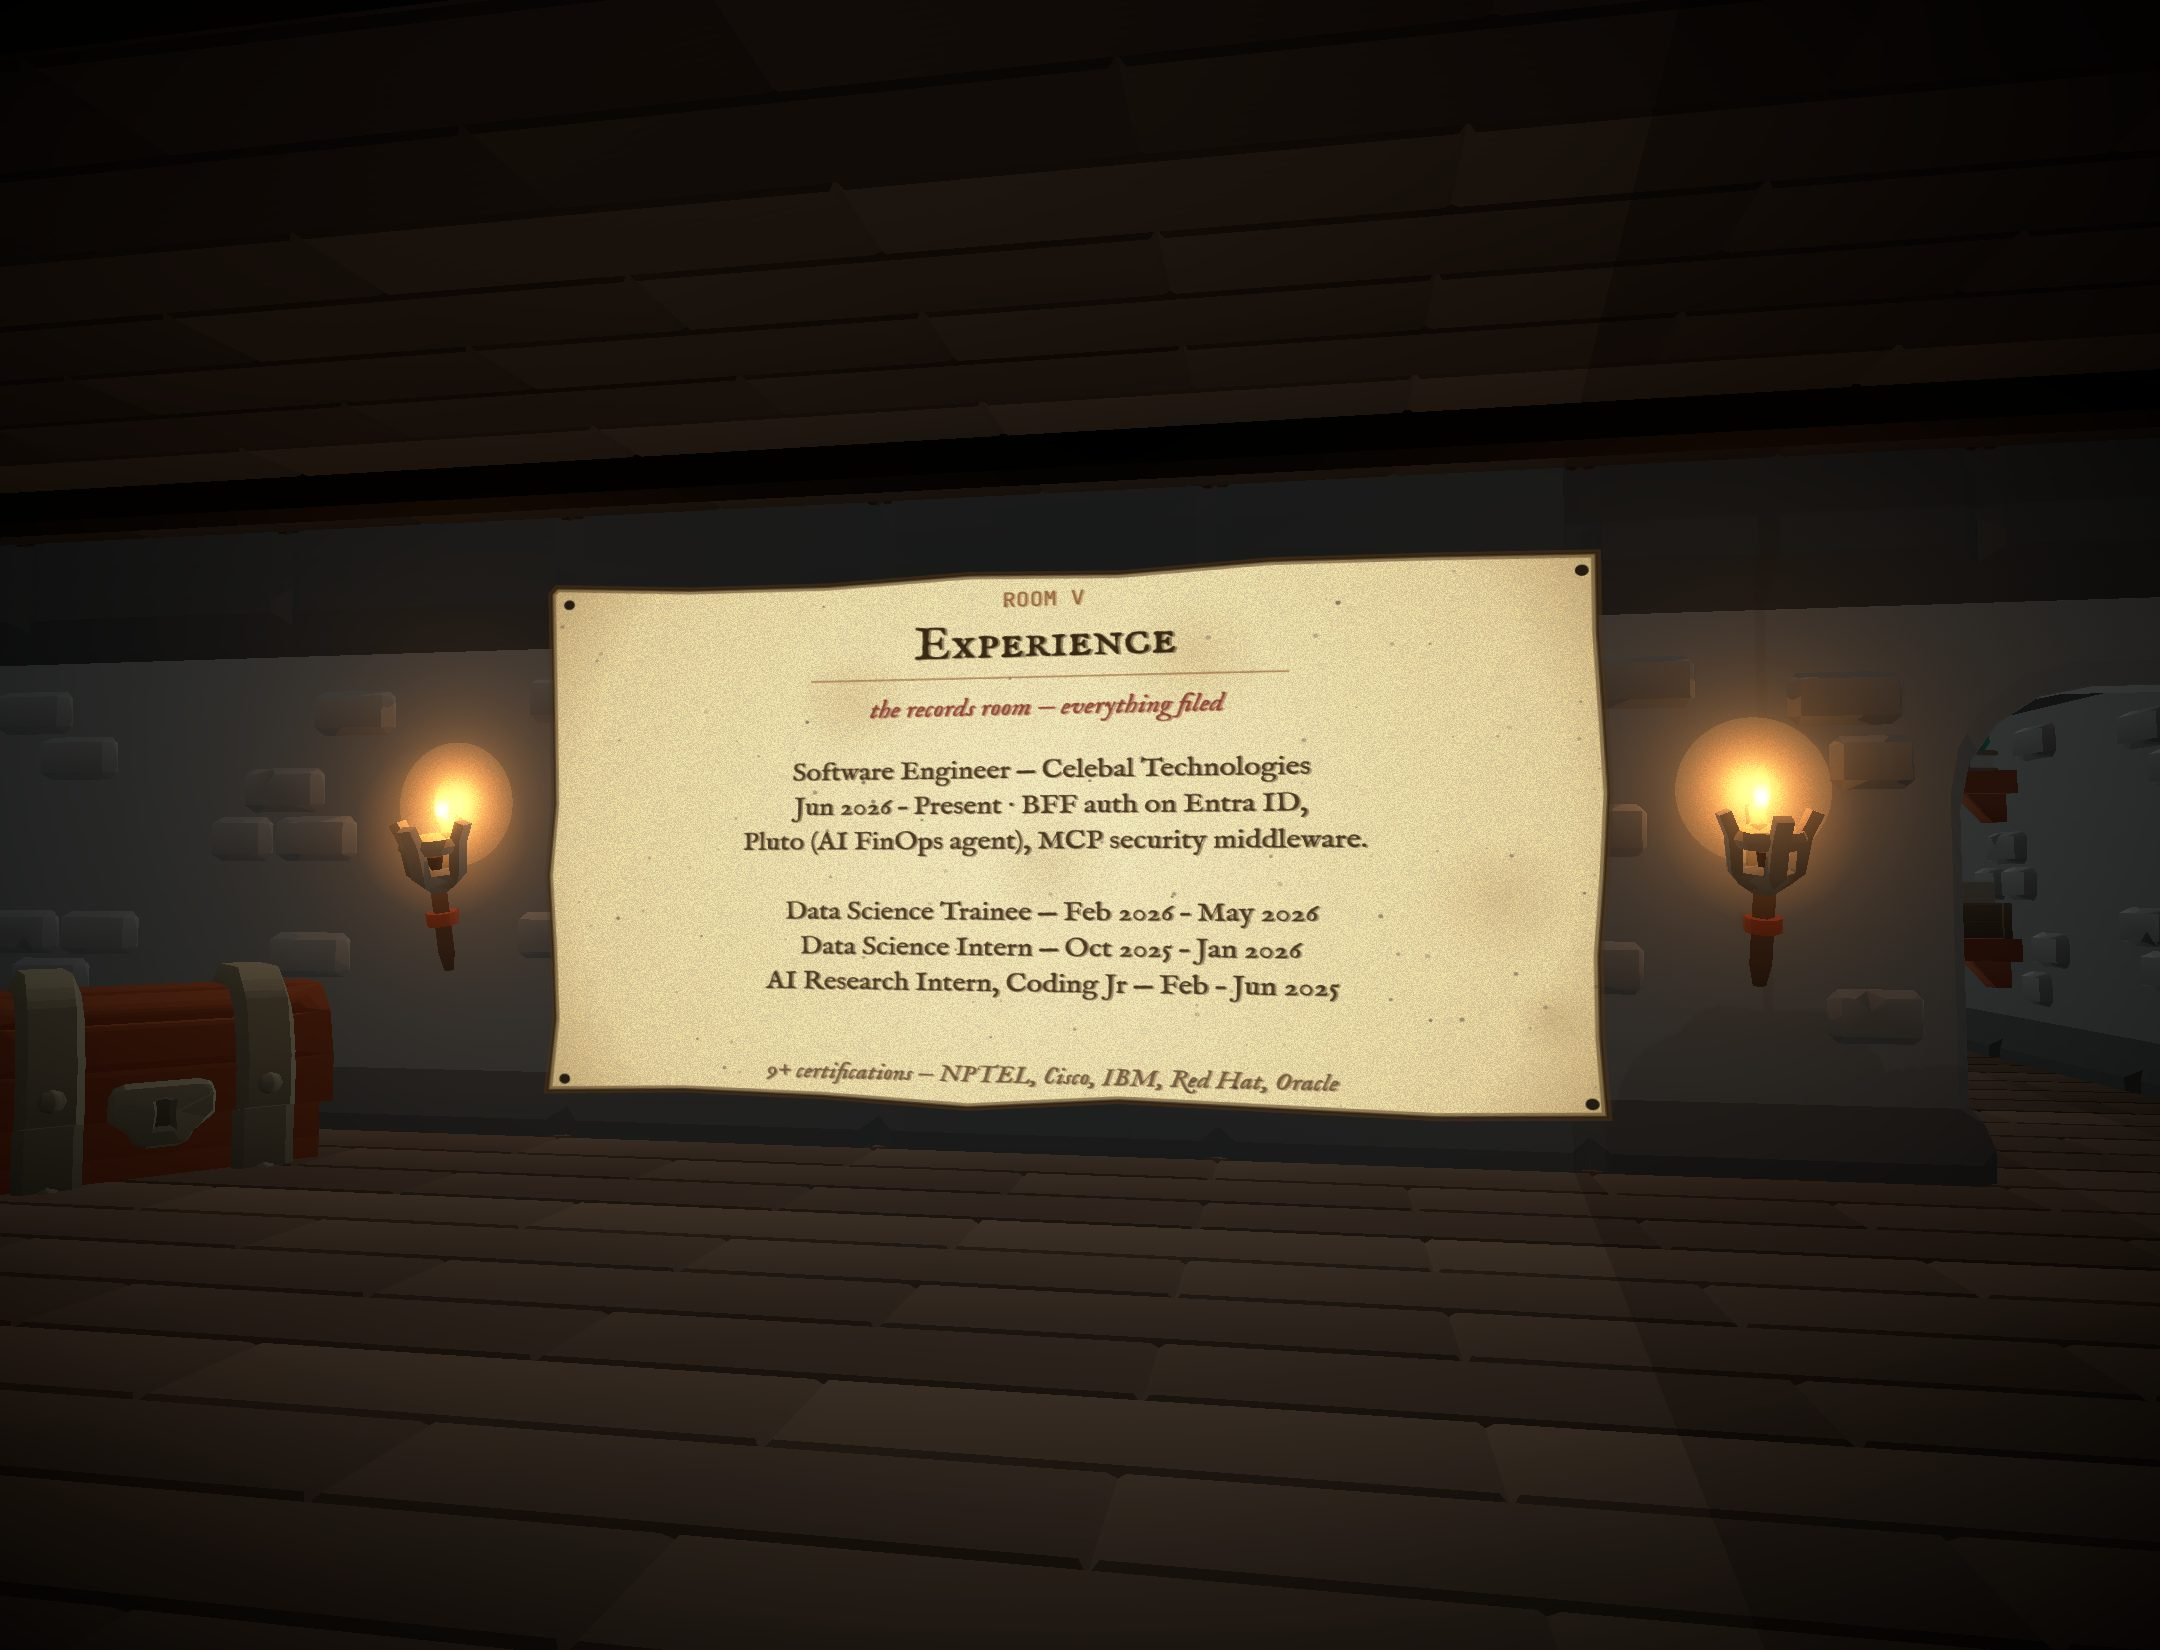
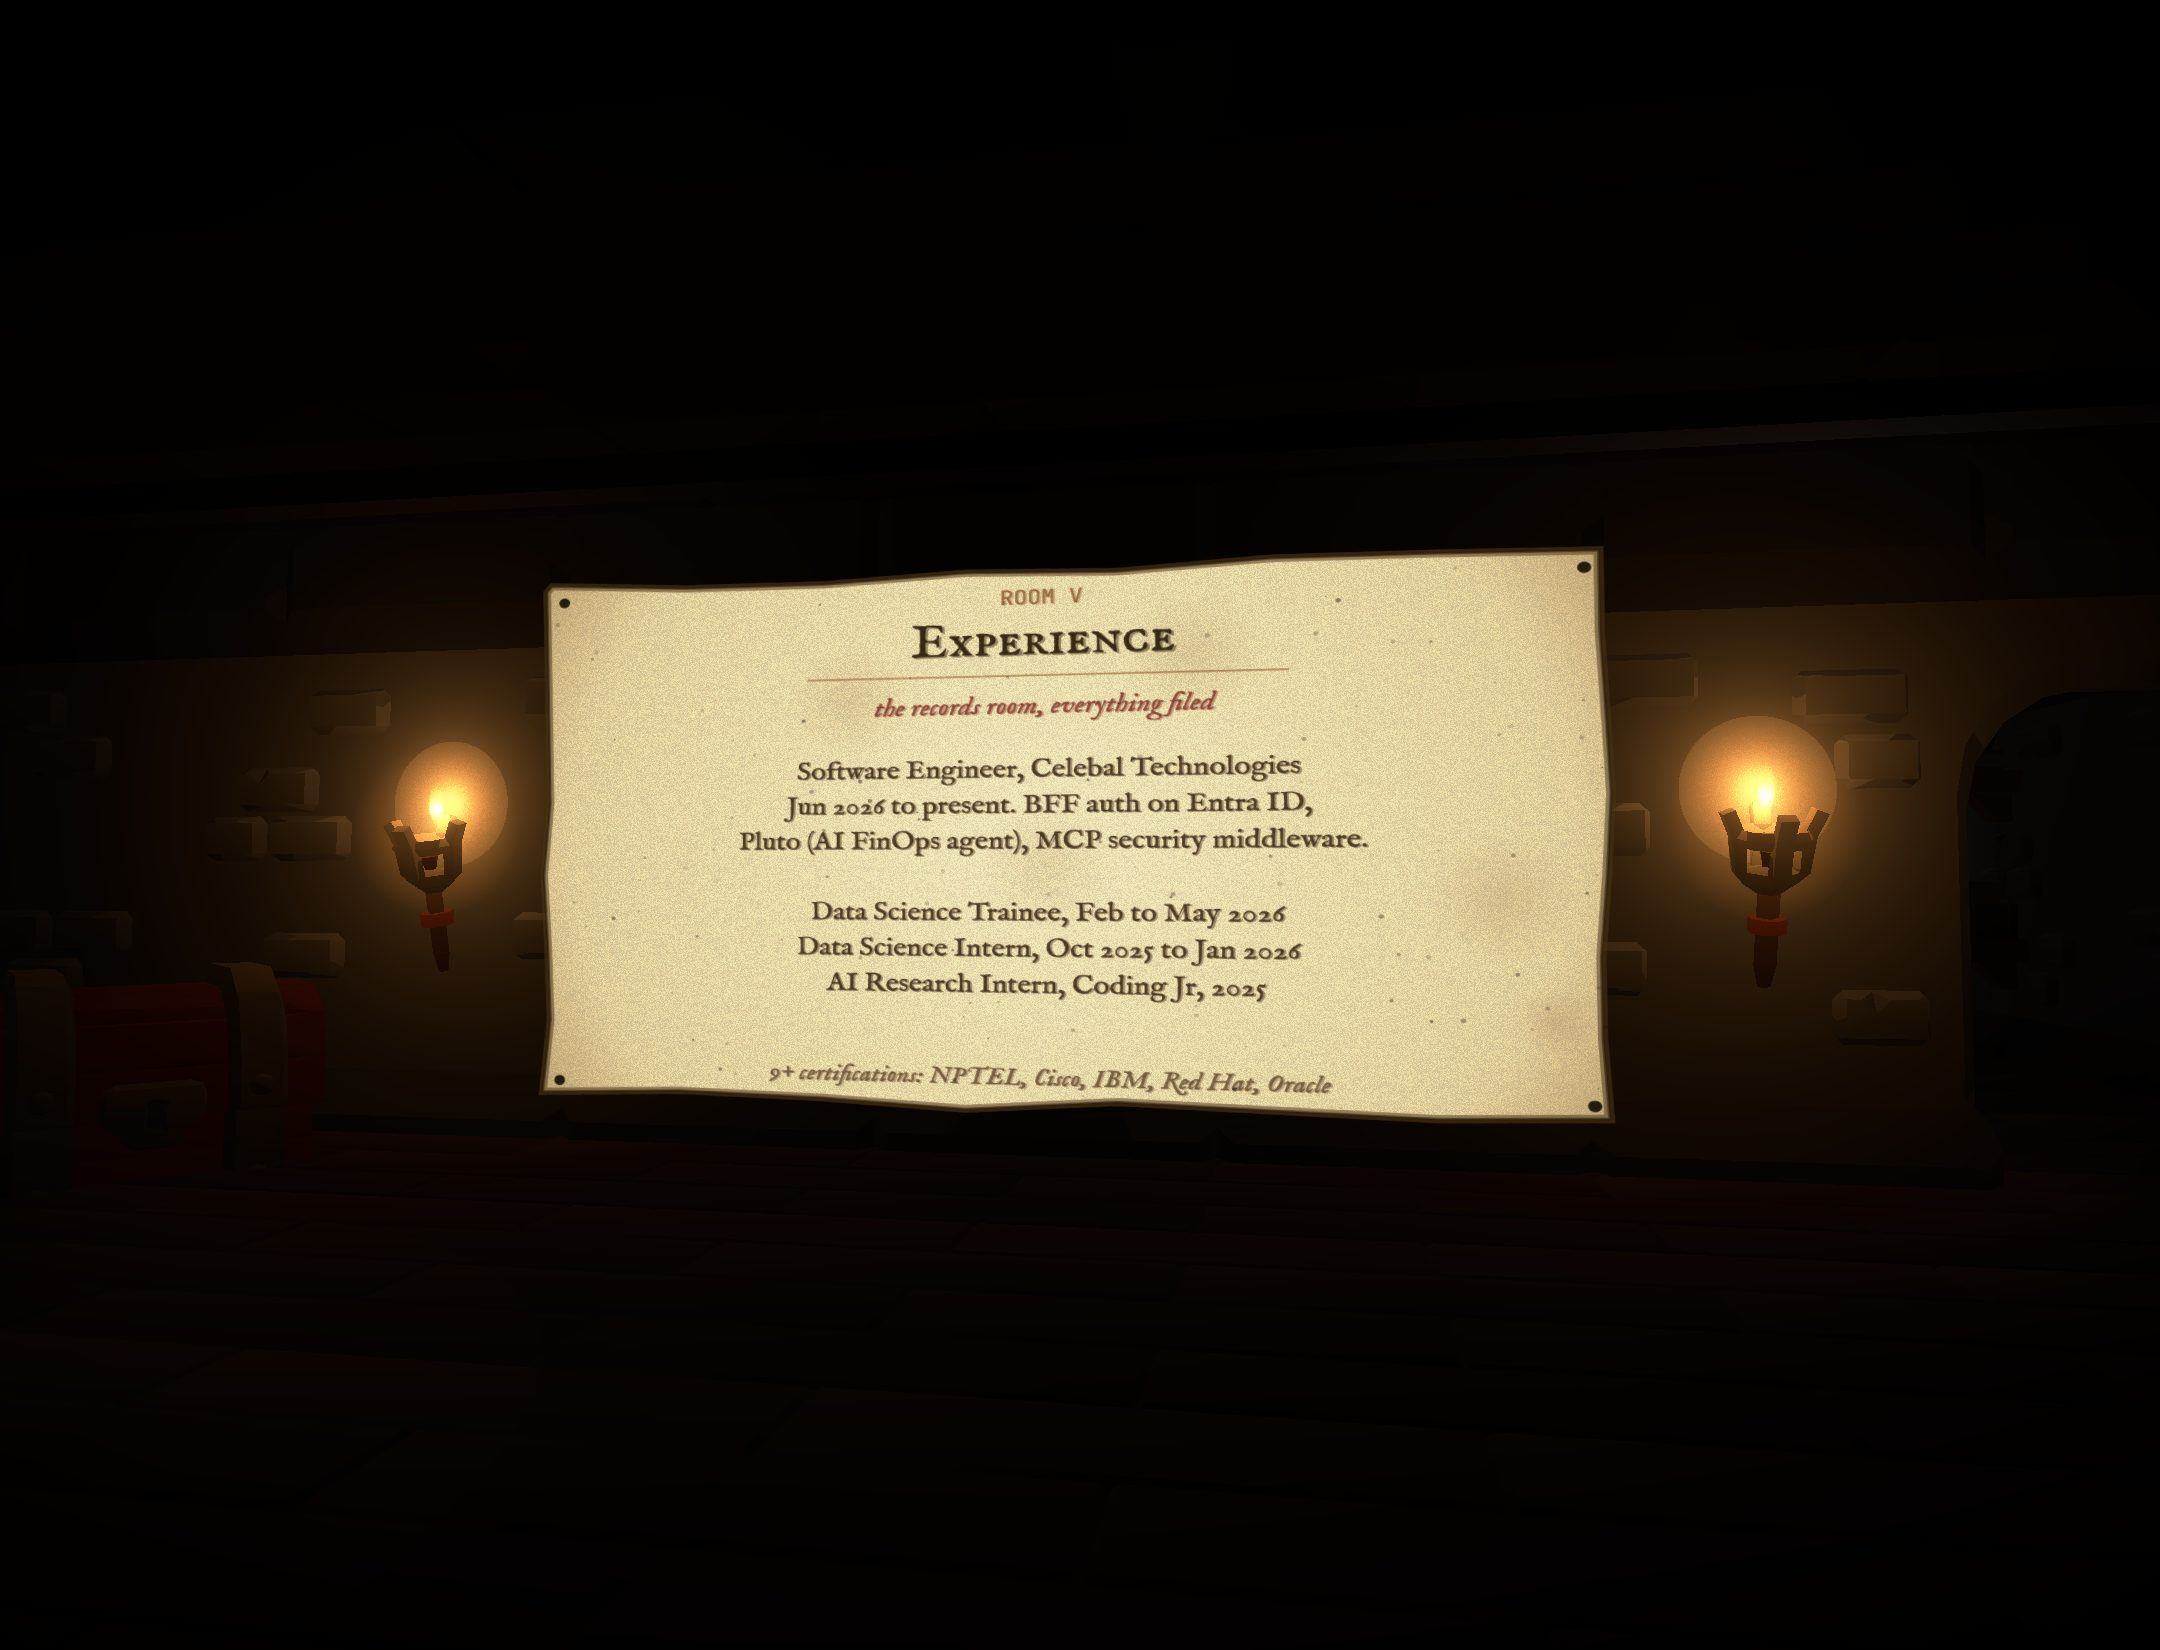
feat: the board carries a Contact me control; the form opens over it
Room VI's form used to hover in front of the room permanently, which is
the thing this whole pass has been removing. The board now draws its own
framed "Contact me" control in the room's typography, with a hotspot
riding it so the button the visitor sees and the thing they press are one
object. Pressing it opens the form on its own dark ground where nothing
behind it reads through.

This resolves the trade that was blocking the diegetic work. Rendering
the form INTO the canvas would have meant reimplementing keyboard entry,
autofill, paste and screen-reader support by hand, all worse than the
browser's. Behind a control, the fields stay ordinary inputs and the room
still never has a panel floating in it.

One trap worth recording: everything inside the letter is marked
[data-reveal] for the scroll choreography, which parks it at opacity 0
until a ScrollTrigger fires — and inside a modal that trigger never comes,
so the panel opened completely empty with only its heading showing.

Verified on both tracks: immersive has no inline form and opens the letter
from the board, real INPUT/email fields, sends, closes on Esc; static
keeps its inline form and no board control, and sends.

diff --git a/src/components/Contact.jsx b/src/components/Contact.jsx
@@ -1,8 +1,10 @@
-import { useState } from 'react'
+import { useEffect, useState } from 'react'
 import Chapter from './Chapter'
 import Cobweb from './Cobweb'
 import Spider from './Spider'
 import { sendMessage } from '../lib/sendMessage'
+import Reach from './Reach'
+import { useDevice } from '../hooks/useDevice'
 
 const EMAIL = 'wparasmotwani@gmail.com'
 
@@ -15,6 +17,13 @@ const contactLinks = [
 ]
 
 export default function Contact() {
+  const { immersive } = useDevice()
+  // In the room the form is behind the board's own "Contact me" control:
+  // a panel hovering permanently in front of the scenery is the thing this
+  // whole redesign was getting rid of. Opened, it sits on its own dark
+  // backdrop so nothing in the room reads through it — and the fields stay
+  // real inputs, which a canvas cannot be.
+  const [open, setOpen] = useState(false)
   const [formData, setFormData] = useState({ name: '', email: '', message: '' })
   // idle | sending | sent | failed
   const [state, setState] = useState('idle')
@@ -51,6 +60,13 @@ export default function Contact() {
       `mailto:${EMAIL}?subject=${encodeURIComponent(subject)}&body=${encodeURIComponent(body)}`
   }
 
+  useEffect(() => {
+    if (!open) return
+    const onKey = (e) => { if (e.key === 'Escape') setOpen(false) }
+    window.addEventListener('keydown', onKey)
+    return () => window.removeEventListener('keydown', onKey)
+  }, [open])
+
   const copy = async (what, text) => {
     try {
       await navigator.clipboard.writeText(text)
@@ -79,6 +95,109 @@ export default function Contact() {
         Let us build something<br /><span className="gold">intelligent.</span>
       </h3>
 
+      {/* In the room: the board carries the control, and pressing it opens
+          the real thing. Off the immersive track there is no board, so the
+          form stays inline where it always was. */}
+      {immersive ? (
+        <>
+          <Reach name="contact" onClick={() => setOpen(true)} label="Contact me" title="Contact me" />
+          {open && (
+            <div className="letter-backdrop" onClick={() => setOpen(false)}>
+              <div className="letter" onClick={(e) => e.stopPropagation()}>
+                <button
+                  className="letter-close"
+                  data-hover
+                  aria-label="Close"
+                  onClick={() => setOpen(false)}
+                >
+                  ✕
+                </button>
+                <h4 className="letter-head">Contact me</h4>
+        <div className="contact-grid">
+          <div className="contact-links" data-reveal>
+            {contactLinks.map((link) => (
+              <a
+                key={link.label}
+                href={link.href}
+                target={link.href.startsWith('http') || link.href.endsWith('.pdf') ? '_blank' : undefined}
+                rel="noopener noreferrer"
+                className="contact-link-item"
+                data-hover
+              >
+                <span className="label">{link.label}</span>
+                <span className="value">{link.value}</span>
+              </a>
+            ))}
+          </div>
+
+          <form className="contact-form" onSubmit={handleSubmit} data-reveal>
+            <input
+              type="text" placeholder="Your name"
+              value={formData.name}
+              onChange={(e) => setFormData({ ...formData, name: e.target.value })}
+              required
+            />
+            <input
+              type="email" placeholder="Your email"
+              value={formData.email}
+              onChange={(e) => setFormData({ ...formData, email: e.target.value })}
+              required
+            />
+            <textarea
+              placeholder="Your message" rows={4}
+              value={formData.message}
+              onChange={(e) => setFormData({ ...formData, message: e.target.value })}
+              required
+            />
+            <button
+              type="submit"
+              className="btn solid"
+              data-hover
+              data-magnetic
+              disabled={state === 'sending' || state === 'sent'}
+            >
+              {state === 'sending' ? 'Sending…' : state === 'sent' ? '✓ Message sent' : 'Send message →'}
+            </button>
+
+            {state === 'sent' && (
+              <div className="contact-fallback contact-fallback--ok" role="status">
+                <p>Delivered. A reply will come to {formData.email || 'the address you gave'}.</p>
+              </div>
+            )}
+
+            {state === 'failed' && (
+              <div className="contact-fallback" role="status">
+                <p>
+                  That didn’t send — nothing has reached Paras. Use one of
+                  these instead; they don’t depend on this form.
+                </p>
+                <div className="contact-fallback-row">
+                  <button type="button" data-hover onClick={openMailClient}>
+                    Open in mail app
+                  </button>
+                  <button type="button" data-hover onClick={() => copy('address', EMAIL)}>
+                    {copied === 'address' ? '✓ address copied' : `Copy ${EMAIL}`}
+                  </button>
+                  <button
+                    type="button"
+                    data-hover
+                    onClick={() => {
+                      const { subject, body } = compose()
+                      copy('message', `${subject}\n\n${body}`)
+                    }}
+                  >
+                    {copied === 'message' ? '✓ message copied' : 'Copy the message'}
+                  </button>
+                </div>
+              </div>
+            )}
+          </form>
+        </div>
+              </div>
+            </div>
+          )}
+        </>
+      ) : (
       <div className="contact-grid">
         <div className="contact-links" data-reveal>
           {contactLinks.map((link) => (
@@ -159,6 +278,7 @@ export default function Contact() {
           )}
         </form>
       </div>
+      )}
     </Chapter>
   )
 }

diff --git a/src/index.css b/src/index.css
@@ -2444,3 +2444,84 @@ html.lights-on .cursor-ring { opacity: 1; }
   border-left-color: var(--gold);
   background: rgba(212, 169, 78, 0.08);
 }
+
+/* The letter: the contact form, opened from the board's own control.
+   Same pattern as the booklet and the machine — a thing in the room is
+   pressed, and the real interface comes up on its own dark ground where
+   nothing behind it reads through. The fields are ordinary inputs, so
+   autofill, paste, keyboard and screen readers all still work; that is
+   the whole reason this is a panel and not a canvas. */
+.letter-backdrop {
+  position: fixed;
+  inset: 0;
+  z-index: 1600;
+  display: grid;
+  place-items: center;
+  padding: clamp(16px, 4vw, 48px);
+  background: rgba(6, 5, 3, 0.9);
+  backdrop-filter: blur(7px);
+  animation: letterIn 0.32s var(--ease-out);
+}
+@keyframes letterIn { from { opacity: 0 } to { opacity: 1 } }
+
+.letter {
+  position: relative;
+  width: min(940px, 100%);
+  max-height: 88vh;
+  overflow-y: auto;
+  padding: clamp(26px, 4vw, 46px);
+  background:
+    radial-gradient(ellipse 120% 100% at 50% 0%, rgba(212, 169, 78, 0.06), transparent 70%),
+    #100d09;
+  border: 1px solid var(--gold-faint);
+  outline: 3px solid rgba(212, 169, 78, 0.06);
+  outline-offset: 6px;
+  box-shadow: 0 40px 90px rgba(0, 0, 0, 0.8);
+}
+
+.letter-head {
+  font-family: var(--font-display);
+  font-size: clamp(1.5rem, 3.4vw, 2.1rem);
+  letter-spacing: 0.06em;
+  color: var(--gold);
+  text-align: center;
+  margin-bottom: 6px;
+}
+.letter-head::after {
+  content: '';
+  display: block;
+  width: 46%;
+  height: 1px;
+  margin: 16px auto 26px;
+  background: linear-gradient(90deg, transparent, var(--gold-dim), transparent);
+}
+
+.letter-close {
+  position: absolute;
+  top: 12px;
+  right: 14px;
+  width: 34px;
+  height: 34px;
+  font-size: 0.9rem;
+  color: var(--gold-dim);
+  background: transparent;
+  border: 1px solid var(--gold-faint);
+  cursor: pointer;
+}
+.letter-close:hover { color: var(--gold); border-color: var(--gold-dim); }
+
+/* inside the letter the two columns stack on narrow screens */
+.letter .contact-grid { margin-top: 0; }
+@media (max-width: 760px) {
+  .letter .contact-grid { grid-template-columns: 1fr; }
+}
+
+/* Everything inside the letter is visible the moment it opens. The form and
+   the link list are marked [data-reveal] for the scroll choreography, which
+   parks them at opacity 0 until their trigger fires — and inside a modal
+   that trigger never comes, so the panel opened empty. */
+.letter [data-reveal] {
+  opacity: 1 !important;
+  transform: none !important;
+  filter: none !important;
+}

diff --git a/src/scene/RoomCopy.jsx b/src/scene/RoomCopy.jsx
@@ -63,7 +63,11 @@ function head(g, numeral, title, subtitle) {
 
 // Heading + running prose. Used where a room has something to say rather
 // than something to list.
-export function ProseBoard({ numeral, title, subtitle, lines, foot, at = AT, size = SIZE }) {
+// `action` draws a framed label low on the board — the visible half of a
+// control. A Hotspot goes over it in the room, so the button is part of the
+// scenery rather than a DOM card floating in front of it, and pressing it
+// opens the real form on top of everything.
+export function ProseBoard({ numeral, title, subtitle, lines, foot, action, at = AT, size = SIZE }) {
   const { cw, ch } = boardCanvas(size)
   return (
     <Inscription
@@ -78,6 +82,18 @@ export function ProseBoard({ numeral, title, subtitle, lines, foot, at = AT, siz
           if (!line) return
           roughText(g, line, W / 2, 290 + i * 46, 33, INK_BODY, 0.93, { font: SERIF })
         })
+        if (action) {
+          const bw = 430, bh = 78, bx = W / 2 - bw / 2, by = H - 186
+          g.strokeStyle = INK_RED
+          g.globalAlpha = 0.62
+          g.lineWidth = 3
+          g.strokeRect(bx, by, bw, bh)
+          g.globalAlpha = 0.16
+          g.fillStyle = INK_RED
+          g.fillRect(bx, by, bw, bh)
+          g.globalAlpha = 1
+          roughText(g, action, W / 2, by + 52, 36, INK_RED, 0.95, { font: SERIF })
+        }
         if (foot) {
           roughText(g, foot, W / 2, H - 52, 30, INK_SOFT, 0.75, { font: SERIF, style: 'italic' })
         }

diff --git a/src/scene/Rooms.jsx b/src/scene/Rooms.jsx
@@ -4,6 +4,7 @@ import ManorRoom, { cols, FLOOR } from './ManorRoom'
 import { Piece, preloadPieces } from './toonify'
 import { Flame } from './Flame'
 import { ProseBoard, ListBoard } from './RoomCopy'
+import { Hotspot } from './Hotspot'
 import Arcade from './Arcade'
 import { journey, roomOffset, roomShift } from './journey'
 import { WOOD, WOOD_DARK, STONE, CRATE, WAX, IRON, FLAME_WARM, CANDLE_LIGHT, CANDLE_DIST } from './palette'
@@ -200,8 +201,12 @@ export function ContactRoom({ lit }) {
           '',
           'Open to opportunities and collaborations.',
         ]}
-        foot="leave word below, the house will pass it on"
+        action="Contact me"
+        foot="the house will pass it on"
       />
+      {/* rides the drawn control on the board, so the button the visitor
+          sees and the thing they click are the same object */}
+      <Hotspot name="contact" reach={30} position={[0, -0.66, -5.3]} />
       <BoardLights lit={lit} />
       <Piece file="table_small_decorated_A" position={[-5.2, FLOOR, -1.4]} rotation={[0, 0.4, 0]} scale={1.35} tint={WOOD} />
       <Piece file="candle_triple" position={[-5.2, FLOOR + 1.04, -1.4]} scale={1.25} tint={WAX} anchor="none" />
